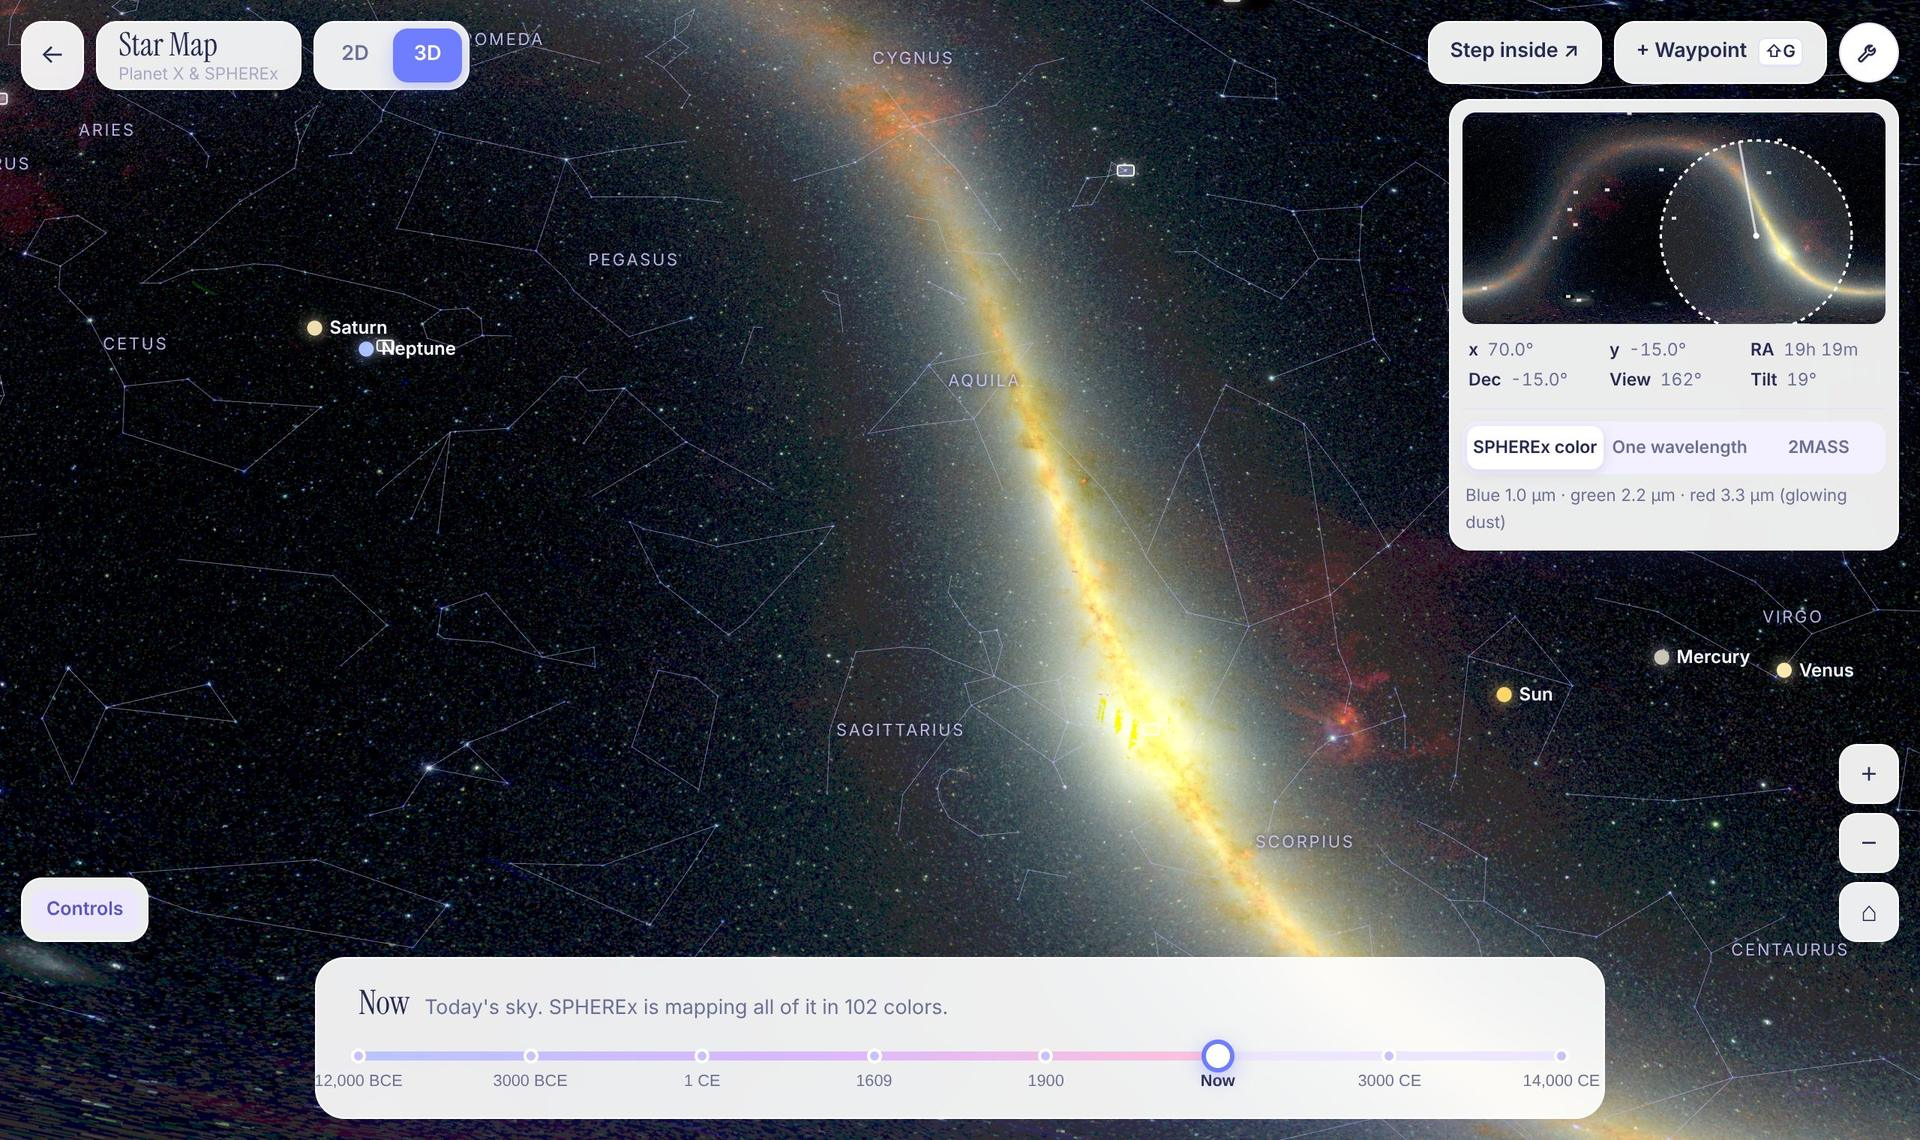
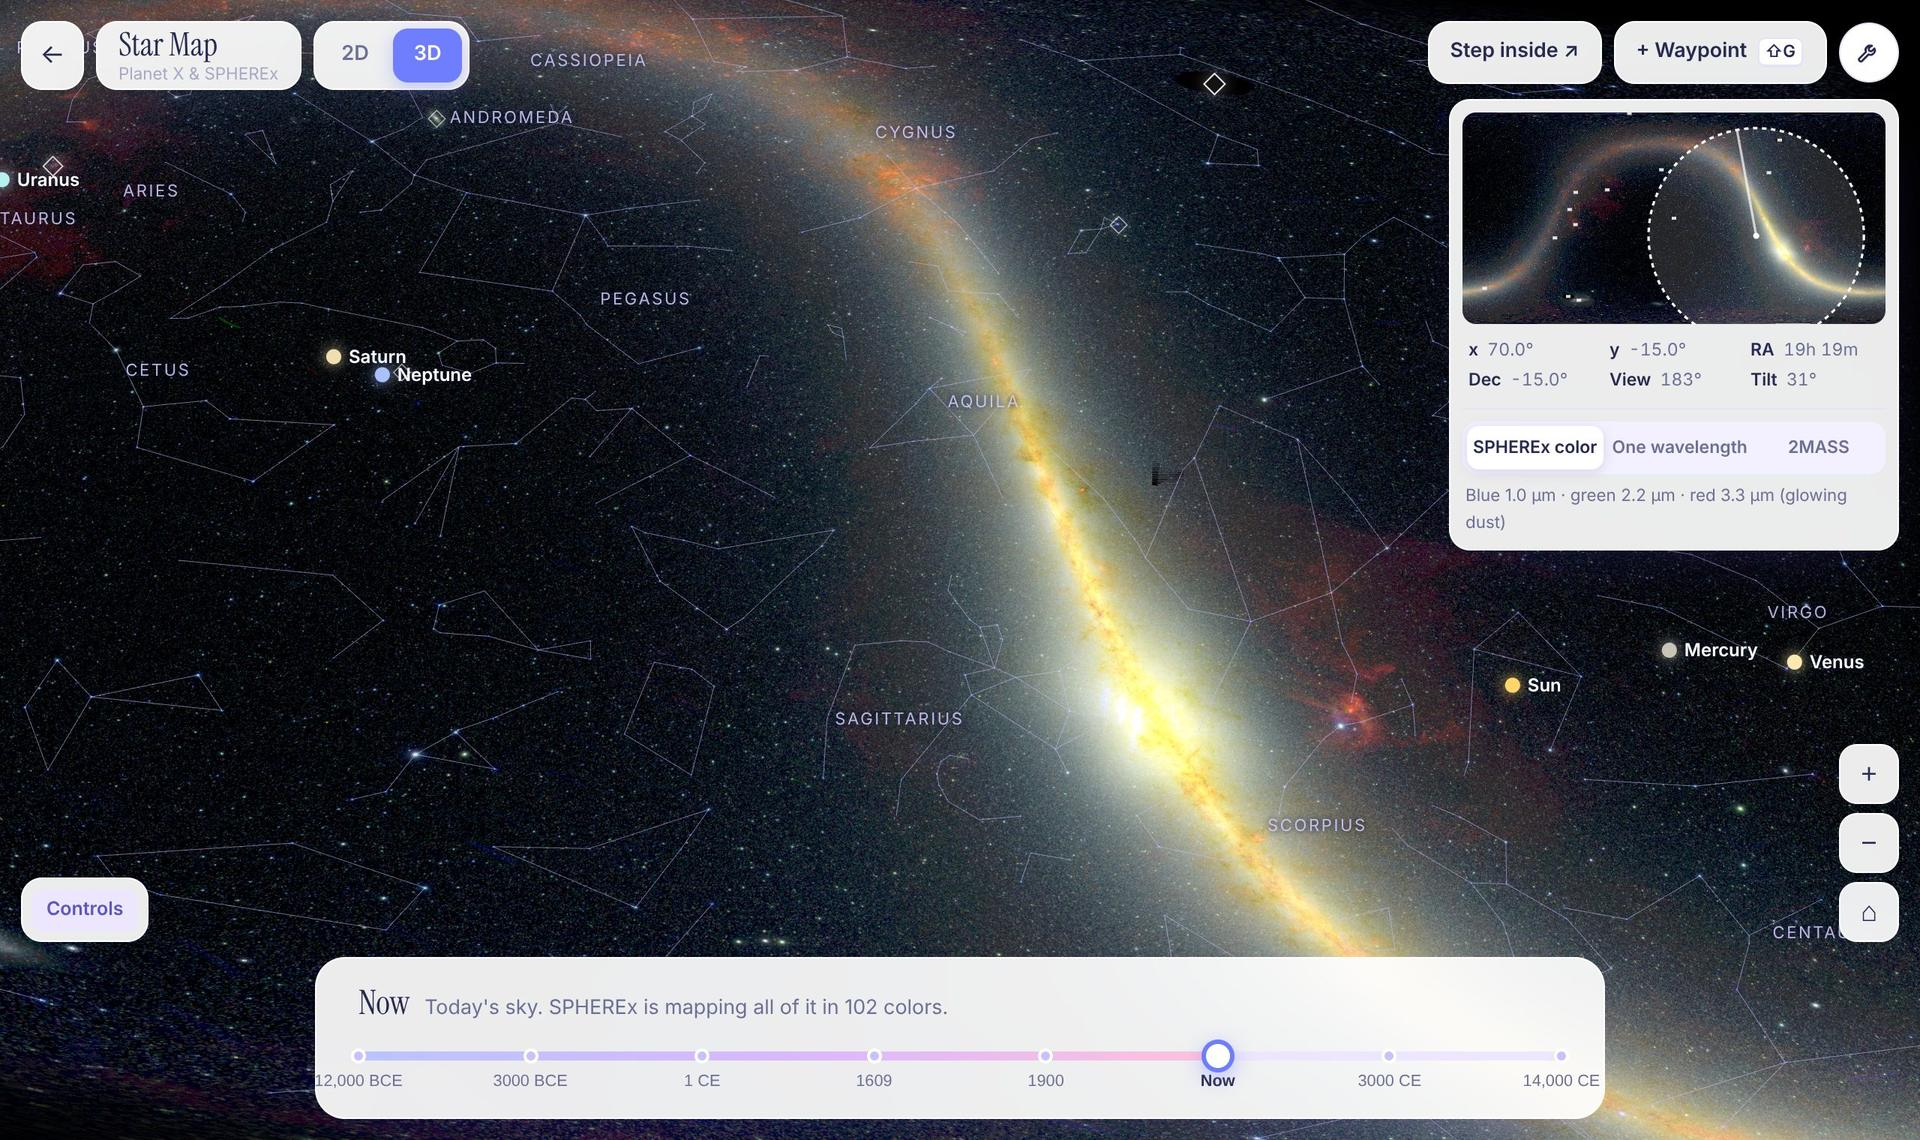
Diamond waypoints, edges that fade into the void, deeper zoom
- Waypoints are breathing white diamonds again (custom ones in their
  pastel colour); they grow and fill on hover
- No white border: the slab is black and the map's edges dissolve into
  the black background through soft gradient strips
- Zoom about four times further (to ~13 arcminutes) with two more tile
  levels; each level requests matching HiPS resolution, and past a
  survey's finest data the tile is requested smaller and GPU-smoothed
- Saturated cores the DR1 map leaves blank are shown as white
- Readout shows arcminutes when zoomed right in

Claude-Session: https://claude.ai/code/session_01PBkf4TyuxbvSE3LULobKkr

diff --git a/lib/starmap/viewer.ts b/lib/starmap/viewer.ts
@@ -1,7 +1,7 @@
 import * as THREE from "three";
 import type { SkyData } from "@/lib/explorer/astro";
 import { DEG, MAP_H, MAP_W, planetPositions, projector, unprojector } from "./coords";
-import { SPHEREX_RGB, makeLoader, renderTile, type TileRequest } from "./hips";
+import { SPHEREX_RGB, layerById, makeLoader, renderTile, type TileRequest } from "./hips";
 import type { Waypoint } from "./data";
 
 export type Settings = {
@@ -48,15 +48,16 @@ type Tween = { start: number; ms: number; step: (t: number) => void; done?: () =
 type Overlay = { el: HTMLElement; x: number; y: number; kind: "con" | "star" | "planet" | "wp"; minD?: number; maxD?: number; wp?: Waypoint };
 
 const ROOT = 30; // level-0 tile size in degrees (12 × 6 tiles)
-const LMAX = 6; // deepest level: 30 / 2⁶ ≈ 0.47° tiles
+const LMAX = 8; // deepest level: 30 / 2⁸ ≈ 0.12° tiles, so zooming in stays sharp
 const MAX_TILES = 96; // never draw more than this many tiles at once
 const CACHE_CAP = 200; // textures kept in memory
 const PHI_MAX = 72 * DEG; // tilt limit: you can never get under the baseplate
 const SNAP_PHI = 12 * DEG; // let go of an orbit this close to top-down and it snaps to 2D
-const D_MIN = 1.2;
+const D_MIN = 0.3; // zoom right in: about 13 arcminutes across the screen
 const D_MAX = 260;
 const FOV = 40;
-const PLATE_DEPTH = 0.6; // thin slab: just enough for a fine white edge
+const PLATE_DEPTH = 0.6;
+const EDGE_FADE = 10; // degrees over which the map dissolves into the black void at its edges
 
 const clamp = (v: number, a: number, b: number) => Math.min(b, Math.max(a, v));
 const ease = (t: number) => (t < 0.5 ? 4 * t * t * t : 1 - Math.pow(-2 * t + 2, 3) / 2);
@@ -234,14 +235,39 @@ export class StarMapViewer {
 
   // ───────────────────────── Scene ─────────────────────────
 
-  /** The map sits on a thick baseplate. Its sides are white so you can see the edge when you tilt. */
+  /**
+   * The map sits on a black baseplate, and its edges dissolve into the black void: four soft
+   * gradient strips lie over the borders, so there's no hard edge from any angle.
+   */
   private buildPlate() {
-    const white = new THREE.MeshBasicMaterial({ color: 0xffffff });
-    const top = new THREE.MeshBasicMaterial({ color: 0x000000 });
-    const plate = new THREE.Mesh(new THREE.BoxGeometry(MAP_W, PLATE_DEPTH, MAP_H), [white, white, top, white, white, white]);
+    const black = new THREE.MeshBasicMaterial({ color: 0x000000 });
+    const plate = new THREE.Mesh(new THREE.BoxGeometry(MAP_W, PLATE_DEPTH, MAP_H), black);
     plate.position.y = -PLATE_DEPTH / 2 - 0.002;
     plate.renderOrder = 0;
     this.scene.add(plate);
+
+    const c = Object.assign(document.createElement("canvas"), { width: 256, height: 4 });
+    const ctx = c.getContext("2d")!;
+    const g = ctx.createLinearGradient(0, 0, 256, 0);
+    g.addColorStop(0, "rgba(0,0,0,1)");
+    g.addColorStop(0.35, "rgba(0,0,0,0.75)");
+    g.addColorStop(1, "rgba(0,0,0,0)");
+    ctx.fillStyle = g;
+    ctx.fillRect(0, 0, 256, 4);
+    const tex = new THREE.CanvasTexture(c);
+    const mat = new THREE.MeshBasicMaterial({ map: tex, transparent: true, depthWrite: false });
+    const strip = (len: number, cx: number, cy: number, rot: number) => {
+      const m = new THREE.Mesh(new THREE.PlaneGeometry(EDGE_FADE, len), mat);
+      m.rotation.set(-Math.PI / 2, 0, rot);
+      m.position.set(cx, 0.004, -cy);
+      m.renderOrder = 15; // over the imagery, under lines and labels
+      this.scene.add(m);
+    };
+    const h = EDGE_FADE / 2;
+    strip(MAP_H, -180 + h, 0, 0); // west edge: dark side outward
+    strip(MAP_H, 180 - h, 0, Math.PI); // east edge
+    strip(MAP_W, 0, 90 - h, -Math.PI / 2); // north edge
+    strip(MAP_W, 0, -90 + h, Math.PI / 2); // south edge
   }
 
   private buildGrid() {
@@ -328,6 +354,7 @@ export class StarMapViewer {
       const [x, y] = proj(wp.ra, wp.dec);
       const el = document.createElement("button");
       el.className = `mv-ov mv-wp${wp.custom ? " custom" : ""}`;
+      el.appendChild(document.createElement("i")); // the diamond itself (the button carries the screen position)
       el.setAttribute("aria-label", `Waypoint: ${wp.title}`);
       if (wp.color) el.style.setProperty("--wc", wp.color);
       el.style.display = "none";
@@ -467,7 +494,7 @@ export class StarMapViewer {
     this.camera.up.set(-st, 0, -ct);
     this.camera.lookAt(tx, 0, tz);
     this.camera.near = Math.max(0.05, this.d * 0.02);
-    this.camera.far = this.d * 6 + 600;
+    this.camera.far = this.d * 6 + this.renderRadius * 3 + 50;
     this.camera.updateProjectionMatrix();
     this.camera.updateMatrixWorld();
   }
@@ -594,7 +621,8 @@ export class StarMapViewer {
       const s = ROOT / 2 ** t.L, id = ++this.reqId;
       this.inflight.set(key, version);
       this.pending.set(id, { key, version, L: t.L, i: t.i, j: t.j });
-      this.send({ id, x0: t.i * s, y0: t.j * s, w: s, h: s, W: this.tilePx, H: this.tilePx, years: this.years, ...this.imagery() });
+      const px = this.pixelsFor(t.L);
+      this.send({ id, x0: t.i * s, y0: t.j * s, w: s, h: s, W: px, H: px, years: this.years, ...this.imagery() });
     }
 
     for (const [key, e] of this.tiles) {
@@ -607,11 +635,23 @@ export class StarMapViewer {
     return false; // tiles arrive asynchronously and request their own frame
   }
 
+  /**
+   * Resolution scaling: once you zoom past the finest data a survey has, ask for a smaller tile that
+   * matches the data and let the GPU smooth it, instead of rendering big blocky pixels.
+   */
+  private pixelsFor(L: number) {
+    const s = ROOT / 2 ** L, ppd = this.tilePx / s;
+    const im = this.imagery();
+    const finest = Math.max(layerById(im.base).maxOrder, ...im.overlays.map((o) => layerById(o).maxOrder));
+    const want = Math.ceil(Math.log2(((58.63 * ppd) / 512) * im.detail));
+    const extra = want - finest;
+    return extra > 0 ? Math.max(32, this.tilePx >> extra) : this.tilePx;
+  }
+
   private uploadTile(key: string, L: number, i: number, j: number, px: Uint8ClampedArray, version: string) {
-    const s = ROOT / 2 ** L, size = this.tilePx;
+    const s = ROOT / 2 ** L, size = Math.round(Math.sqrt(px.length / 4));
     let e = this.tiles.get(key);
-    if (!e || e.px !== size) {
-      if (e) this.disposeTile(e);
+    if (!e) {
       const mesh = new THREE.Mesh(new THREE.PlaneGeometry(s, s), new THREE.MeshBasicMaterial({ color: 0xffffff }));
       mesh.rotation.x = -Math.PI / 2;
       mesh.position.set(i * s + s / 2, 0, -(j * s + s / 2));

diff --git a/lib/starmap/hips.ts b/lib/starmap/hips.ts
@@ -220,9 +220,14 @@ export async function renderTile(req: TileRequest, load: (url: string) => Promis
         // three grayscale frames → R, G, B
         for (let c = 0; c < 3; c++) rgb[c] = imgs[c] ? imgs[c]!.data[p * imgs[c]!.ch] : -1;
         if (rgb[0] < 0 && rgb[1] < 0 && rgb[2] < 0) continue;
-        rgb[0] = Math.max(0, rgb[0]) * 1.08;
+        rgb[0] = Math.max(0, rgb[0]);
         rgb[1] = Math.max(0, rgb[1]);
-        rgb[2] = Math.max(0, rgb[2]) * 0.95;
+        rgb[2] = Math.max(0, rgb[2]);
+        // DR1 leaves saturated pixels blank (0). If one band is blank where another is near-saturated, show it as saturated.
+        const hi = Math.max(rgb[0], rgb[1], rgb[2]);
+        if (hi >= 150) for (let c = 0; c < 3; c++) if (rgb[c] === 0) rgb[c] = 255;
+        rgb[0] *= 1.08;
+        rgb[2] *= 0.95;
       } else {
         const img = imgs[0];
         if (!img) continue;
@@ -250,6 +255,8 @@ export async function renderTile(req: TileRequest, load: (url: string) => Promis
       out[k + 2] = c[2] * gain;
     }
   });
+
+  if (base.cube) fillSaturated(out, W, H);
 
   for (const id of req.overlays) {
     const layer = OVERLAYS.find((l) => l.id === id);
@@ -365,4 +372,40 @@ export function makeLoader(maxBytes = 120e6, maxConcurrent = 8) {
     cache.set(url, p);
     return p;
   };
+}
+
+/**
+ * The SPHEREx DR1 map leaves the cores of very bright objects blank. Fill blank pixels that are
+ * surrounded by near-saturated ones from their neighbours, so bright cores show as white, not black.
+ */
+function fillSaturated(px: Uint8ClampedArray, W: number, H: number) {
+  for (let pass = 0; pass < 12; pass++) {
+    const src = px.slice();
+    let changed = 0;
+    for (let y = 0; y < H; y++)
+      for (let x = 0; x < W; x++) {
+        const k = (y * W + x) * 4;
+        if (src[k] || src[k + 1] || src[k + 2]) continue;
+        let n = 0, r = 0, g = 0, b = 0;
+        for (let dy = -1; dy <= 1; dy++)
+          for (let dx = -1; dx <= 1; dx++) {
+            if ((!dx && !dy) || x + dx < 0 || x + dx >= W || y + dy < 0 || y + dy >= H) continue;
+            const q = k + (dy * W + dx) * 4;
+            if (src[q] + src[q + 1] + src[q + 2] >= 600) {
+              n++;
+              r += src[q];
+              g += src[q + 1];
+              b += src[q + 2];
+            }
+          }
+        const edge = x === 0 || y === 0 || x === W - 1 || y === H - 1;
+        if (n >= (edge ? 2 : 3)) {
+          px[k] = r / n;
+          px[k + 1] = g / n;
+          px[k + 2] = b / n;
+          changed++;
+        }
+      }
+    if (!changed) break;
+  }
 }

diff --git a/app/map/map.css b/app/map/map.css
@@ -71,29 +71,46 @@
   box-shadow: 0 0 12px rgba(76, 224, 138, 0.8);
 }
 
-/* Waypoints: small white rectangles that grow on hover */
+/* Waypoints: small breathing diamonds that grow and fill when you hover them */
 .mv-wp {
   pointer-events: auto;
-  width: 12px;
-  height: 8px;
-  margin: -4px 0 0 -6px;
+  width: 28px;
+  height: 28px;
+  margin: -14px 0 0 -14px;
   padding: 0;
-  border: 1.5px solid #fff;
-  border-radius: 2px;
-  background: var(--wc, rgba(255, 255, 255, 0.35));
-  box-shadow: 0 0 8px rgba(255, 255, 255, 0.55);
+  border: 0;
+  background: none;
   cursor: pointer;
-  transition: width 0.18s, height 0.18s, margin 0.18s, background 0.18s, box-shadow 0.18s;
-}
-.mv-wp.custom { border-color: #fff; background: var(--wc); }
-.mv-wp:hover, .mv-wp:focus-visible {
-  width: 24px;
-  height: 16px;
-  margin: -8px 0 0 -12px;
-  background: var(--wc, #fff);
-  box-shadow: 0 0 0 4px rgba(255, 255, 255, 0.25), 0 0 18px rgba(255, 255, 255, 0.8);
   outline: none;
 }
+.mv-wp i {
+  position: absolute;
+  left: 50%;
+  top: 50%;
+  width: 11px;
+  height: 11px;
+  margin: -5.5px 0 0 -5.5px;
+  border: 1.5px solid #fff;
+  background: rgba(255, 255, 255, 0.08);
+  box-shadow: 0 0 10px rgba(255, 255, 255, 0.45);
+  transform: rotate(45deg);
+  animation: mv-breathe 2.4s ease-in-out infinite;
+  transition: width 0.2s, height 0.2s, margin 0.2s, background 0.2s, box-shadow 0.2s;
+}
+.mv-wp.custom i { border-color: var(--wc); background: color-mix(in srgb, var(--wc) 35%, transparent); box-shadow: 0 0 10px var(--wc); }
+@keyframes mv-breathe {
+  0%, 100% { transform: rotate(45deg) scale(1); opacity: 0.95; }
+  50% { transform: rotate(45deg) scale(0.78); opacity: 0.6; }
+}
+.mv-wp:hover i, .mv-wp:focus-visible i {
+  width: 18px;
+  height: 18px;
+  margin: -9px 0 0 -9px;
+  animation: none;
+  background: var(--wc, #fff);
+  box-shadow: 0 0 0 4px rgba(255, 255, 255, 0.18), 0 0 20px rgba(255, 255, 255, 0.8);
+}
+@media (prefers-reduced-motion: reduce) { .mv-wp i { animation: none; } }
 
 /* ── Chrome ─────────────────────────── */
 .mv-glass { background: var(--glass); border: 1px solid rgba(255, 255, 255, 0.95); box-shadow: var(--shadow); backdrop-filter: blur(12px); border-radius: 14px; }

diff --git a/components/starmap/StarMapApp.tsx b/components/starmap/StarMapApp.tsx
@@ -87,7 +87,7 @@ export default function StarMapApp() {
               readoutRef.current.innerHTML =
                 `<span><b>x</b> ${fmt(v.x)}°</span><span><b>y</b> ${fmt(v.y)}°</span>` +
                 `<span><b>RA</b> ${raHMS(ra)}</span><span><b>Dec</b> ${fmt(v.y)}°</span>` +
-                `<span><b>View</b> ${fmt(v.radius * 2, 0)}°</span><span><b>Tilt</b> ${fmt((v.phi * 180) / Math.PI, 0)}°</span>`;
+                `<span><b>View</b> ${v.radius * 2 < 2 ? `${fmt(v.radius * 120, 0)}′` : `${fmt(v.radius * 2, 0)}°`}</span><span><b>Tilt</b> ${fmt((v.phi * 180) / Math.PI, 0)}°</span>`;
             }
             if (loadingRef.current) {
               loadingRef.current.style.opacity = v.loading ? "1" : "0";

diff --git a/README.md b/README.md
@@ -28,8 +28,8 @@ Every push to GitHub redeploys the site automatically.
 A Google Maps-style map of the whole sky that switches between a flat 2D view and a tilted 3D view.
 
 - **Camera (Fusion 360 style):** middle-drag pans, Shift + middle-drag orbits (a green dot marks the pivot), the scroll wheel zooms toward the cursor. Left-drag also pans and right-drag also orbits. Keyboard: WASD/arrows pan, Q/E turn, R/F tilt, Z/X zoom, T toggles 2D/3D, H returns to the origin.
-- **2D snap:** let go of an orbit within about 12° of straight down and it snaps to the flat 2D view. Tilt stops at 72° so you can't go under the baseplate, whose sides are white so you can see its edges.
-- **Imagery: real SPHEREx data.** The map is SPHEREx Data Release 1 (released by IRSA in Nov 2026), streamed live as HiPS tiles from NASA/IPAC's Infrared Science Archive. A background worker reprojects the HEALPix tiles onto the map's flat RA/Dec grid, starting from the origin (RA 0h, Dec 0°). Tiles are 30° at the coarsest level and split down to about 0.5° as you zoom; zoomed out they use coarser HiPS levels.
+- **2D snap:** let go of an orbit within about 12° of straight down and it snaps to the flat 2D view. Tilt stops at 72° so you can't go under the baseplate. The map's edges dissolve into the black void, with no border.
+- **Imagery: real SPHEREx data.** The map is SPHEREx Data Release 1 (released by IRSA in Nov 2026), streamed live as HiPS tiles from NASA/IPAC's Infrared Science Archive. A background worker reprojects the HEALPix tiles onto the map's flat RA/Dec grid, starting from the origin (RA 0h, Dec 0°). Tiles are 30° at the coarsest level and split down to about 0.12° as you zoom (you can zoom in to about 13 arcminutes across the screen); each level loads a matching HiPS resolution, up to SPHEREx's 13″ pixels or 2MASS/Spitzer's finer ones.
   - **SPHEREx color** (default): blue 1.0 µm, green 2.2 µm, red 3.3 µm. **One wavelength**: any of the 102 bands. **2MASS** colour as an alternative base.
   - **Extra IRSA layers** in Settings, drawn where they have data: Spitzer GLIMPSE360, Spitzer SAGE-LMC, MSX.
   - The north and south ecliptic poles are blank in the DR1 all-sky map; IRSA serves those deep fields as a separate collection (`spherex_dr1_deep`).
@@ -37,7 +37,7 @@ A Google Maps-style map of the whole sky that switches between a flat 2D view an
 - **Performance:** only tiles near the view are drawn (at most 96, plus fog in the distance), with less detail when zoomed out, and nothing redraws unless something changes.
 - **Minimap:** shows where you are as a white dotted circle that grows as you zoom out. Drag it to move.
 - **Timeline:** snaps between eight dates from 12,000 BCE to 14,000 CE. The sky shifts with precession (simplified model) and the planets use NASA JPL's approximate orbital elements (only shown within ±3,000 years).
-- **Waypoints:** small white rectangles. Hover for a card (description, why it matters, date, coordinates), click to hyperspace there. Shift+G adds your own (saved in your browser; export and import in Settings).
+- **Waypoints:** small breathing white diamonds. Hover for a card (description, why it matters, date, coordinates), click to hyperspace there. Shift+G adds your own (saved in your browser; export and import in Settings).
 - **Settings:** the wrench icon picks the IRSA imagery and extra layers, toggles light, constellation lines, names, descriptions, waypoints, planets and the grid, and sets the quality.
 - **Your own images:** list images with coordinates in `public/data/map-images.json` as `{ "src", "ra", "dec", "widthDeg", "heightDeg" }` and they're placed on the map by their RA/Dec, loading only when they come into view.
 
